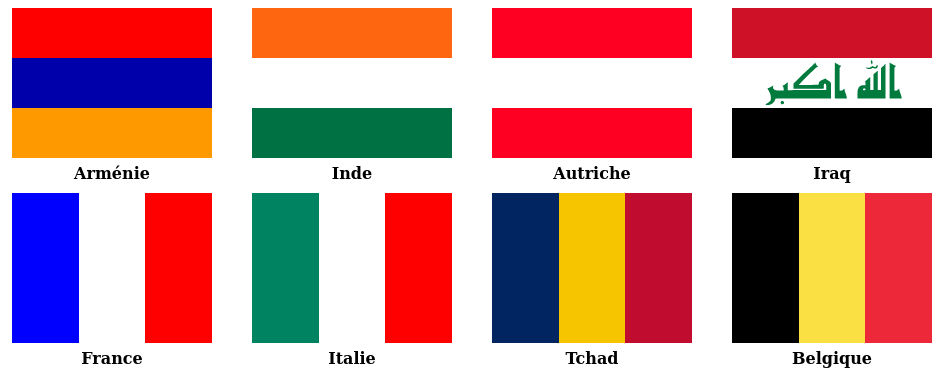
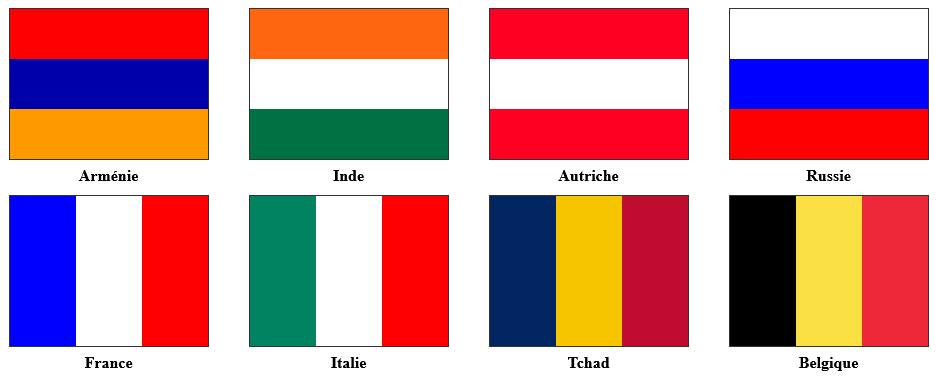
mise à jour séance 7

diff --git a/seance07.html b/seance07.html
@@ -300,6 +300,38 @@
   &lt;/div&gt;
 &lt;/div&gt;</code></pre>
           </li>
+          <li>Compléter le code HTML manquant pour les trois autres drapeaux de chaque catégorie.
+            <br><small class="text-success">Copier/Coller le code HTML d'un drapeau tout en changeant juste son
+              <strong>id</strong></small>.
+          </li>
+          <li>Tous les drapeaux :
+            <ul>
+              <li>mesurent : 198px &times; 150px</li>
+              <li>possèdent une marge horizontale (margin left/right) de 20px</li>
+              <li>possèdent une marge inférieure (margin bottom) de 35px</li>
+              <li>utilisent un positionnement relatif</li>
+            </ul>
+          </li>
+          <li>Sous les drapeaux :
+            <ul>
+              <li>Afficher le nom du pays en gras et centré sur la totalité de l'espace horizontal disponible.</li>
+              <li>Afficher le nom du pays dans la marge à -25px du bord inférieur du drapeau.</li>
+              <li>Utiliser un positionnement absolu du nom.</li>
+            </ul>
+          </li>
+          <li>Les bandes des drapeaux horizontaux :
+            <ul>
+              <li>Mesurent 100% de l'espace horizontal</li>
+              <li>Ont une largeur de 50px</li>
+            </ul>
+          </li>
+          <li>Les bandes des drapeaux verticaux :
+            <ul>
+              <li>Mesurent 33% de l'espace horizontal</li>
+              <li>Ont une largeur de 150px</li>
+            </ul>
+          </li>
+          <li>Colorier les bandes des drapeaux selon la figure ci-dessus.</li>
         </ol>
       </section>
     </article>

diff --git a/assets/downloads/tp5/drapeaux/horizontaux.css b/assets/downloads/tp5/drapeaux/horizontaux.css
@@ -6,24 +6,26 @@
 }
 
 .drapeau {
-	width: 200px;
+	width: 198px;
 	height: 150px;
-	padding-bottom: 35px;
-  margin: 0 20px;
+  border: #333 solid 1px;
+  position: relative;
+  margin: 0 20px 35px;
 }
 
 .drapeau::after {
-  content: "";
-  width: 100%;
-  display: block;
-  text-align: center;
-  font-weight: bold;
-  margin-top: 5px;
+	position: absolute;
+	content: "";
+	width: 100%;
+	display: block;
+	text-align: center;
+	font-weight: bold;
+	bottom: -25px;
 }
 
 .drapeau.horizontaux .bande {
   width: 100%;
-  height: 50px;
+  height: calc(100% / 3);
 }
 
 #armenie::after {
@@ -70,22 +72,20 @@
   background-color: #fff;
 }
 
-#iraq::after {
-  content: "Iraq";
+#russie::after {
+  content: "Russie";
 }
 
-#iraq .bande1 {
-  background-color: #ce1127;
-}
-
-#iraq .bande2 {
-  background: url(images/allah-akbar.svg) no-repeat center center;
-  background-size: contain;
+#russie .bande1 {
   background-color: #fff;
 }
 
-#iraq .bande3 {
-  background-color: #000;
+#russie .bande2 {
+  background-color: blue;
+}
+
+#russie .bande3 {
+  background-color: red;
 }
 
 .drapeau.verticaux {
@@ -94,8 +94,8 @@
 }
 
 .drapeau.verticaux .bande {
-  width: 33.3%;
-  height: 150px;
+  width: calc(100% / 3);
+  height: 100%;
 }
 
 #france::after {

diff --git a/assets/downloads/tp5/drapeaux/horizontaux.html b/assets/downloads/tp5/drapeaux/horizontaux.html
@@ -29,7 +29,7 @@
       <div class="bande bande3"></div>
     </div>
 
-    <div id="iraq" class="drapeau horizontaux">
+    <div id="russie" class="drapeau horizontaux">
       <div class="bande bande1"></div>
       <div class="bande bande2"></div>
       <div class="bande bande3"></div>
